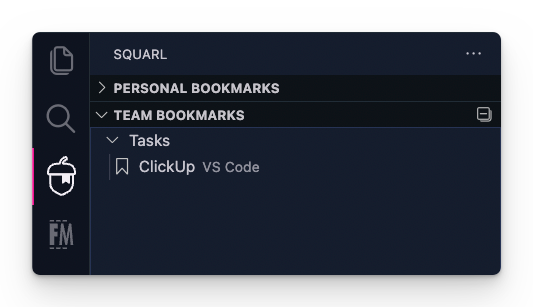
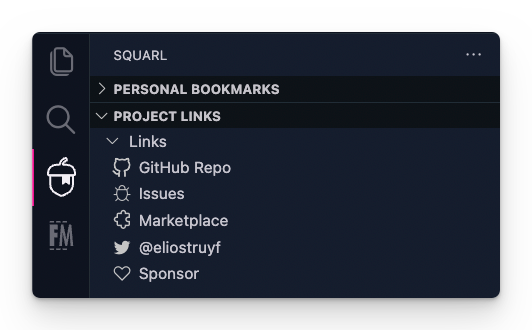
update grouping logic + readme

diff --git a/src/views/BookmarkView.ts b/src/views/BookmarkView.ts
@@ -1,3 +1,4 @@
+import { BookmarkViewType } from './../models/BookmarkViewType';
 import { hasTeamFile } from './../utils/HasTeamFile';
 import { CONTEXT_KEY } from './../constants/ContextKeys';
 import { DefaultGroup } from './../constants/DefaultGroups';
@@ -89,8 +90,8 @@ export class BookmarkView {
     }
   }
 
-  public static async update(type: "personal" | "team") {
-    if (type === "personal") {
+  public static async update(type: BookmarkViewType) {
+    if (type === BookmarkViewType.personal) {
       BookmarkView.provider.refresh();
     } else {
       if (BookmarkView.teamProvider) {
@@ -101,8 +102,8 @@ export class BookmarkView {
     }
   }
 
-  public static async close(type: "personal" | "team") {
-    if (type === "personal") {
+  public static async close(type: BookmarkViewType) {
+    if (type === BookmarkViewType.personal) {
       BookmarkView.tree.dispose();
     } else {
       BookmarkView.teamTree?.dispose();
@@ -131,7 +132,7 @@ export class BookmarkView {
       const groupItems = this._currentItems.filter(b => b.groupId === group.id && !b.isDeleted);
 
       if (groupItems.length > 0) {
-        const groupItem = await this.groupBookmarks(group, groupItems);
+        const groupItem = await this.groupBookmarks(group, groupItems, BookmarkViewType.personal);
         if (groupItem) {
           this.currentTreeItems.push(groupItem);
         }
@@ -141,7 +142,7 @@ export class BookmarkView {
     // Deleted files
     const deletedFiles = this._currentItems.filter(b => b.isDeleted);
     if (deletedFiles.length > 0) {
-      const groupItem = await this.groupBookmarks(DefaultGroup.deleted, deletedFiles, new ThemeIcon("trash"), "deleted");
+      const groupItem = await this.groupBookmarks(DefaultGroup.deleted, deletedFiles, BookmarkViewType.personal, new ThemeIcon("trash"), "deleted");
       if (groupItem) {
         this.currentTreeItems.push(groupItem);
       }
@@ -161,6 +162,10 @@ export class BookmarkView {
       return;
     }
 
+    if (teamFileData.name && BookmarkView.teamTree) {
+      BookmarkView.teamTree.title = teamFileData.name;
+    }
+
     this._currentTeamItems = BookmarkView.processBookmarks(teamFileData.bookmarks || []);
     
     this.currentTeamTreeItems = [
@@ -172,7 +177,7 @@ export class BookmarkView {
       const groupItems = this._currentTeamItems.filter(b => b.groupId === group.id && !b.isDeleted);
 
       if (groupItems.length > 0) {
-        const groupItem = await this.groupBookmarks(group, groupItems);
+        const groupItem = await this.groupBookmarks(group, groupItems, BookmarkViewType.team);
         if (groupItem) {
           this.currentTeamTreeItems.push(groupItem);
         }
@@ -182,7 +187,7 @@ export class BookmarkView {
     // Deleted files
     const deletedFiles = this._currentTeamItems.filter(b => b.isDeleted);
     if (deletedFiles.length > 0) {
-      const groupItem = await this.groupBookmarks(DefaultGroup.deleted, deletedFiles, new ThemeIcon("trash"), "deleted");
+      const groupItem = await this.groupBookmarks(DefaultGroup.deleted, deletedFiles, BookmarkViewType.team, new ThemeIcon("trash"), "deleted");
       if (groupItem) {
         this.currentTeamTreeItems.push(groupItem);
       }
@@ -194,9 +199,18 @@ export class BookmarkView {
   /**
    * Group bookmarks
    */
-  public static async groupBookmarks(group: Group, items: Bookmark[], icon?: ThemeIcon, contextValue?: string): Promise<BookmarkTreeItem> {
+  public static async groupBookmarks(
+    group: Group, 
+    items: Bookmark[],
+    type: BookmarkViewType,
+    icon?: ThemeIcon, 
+    contextValue?: string
+  ): Promise<BookmarkTreeItem> {
     const groupId =`group.${group.id}`;
-    let groupItem = this.currentTreeItems.find(c => c.id === groupId);
+    let groupItem = 
+      type === BookmarkViewType.personal ? 
+        this.currentTreeItems.find(c => c.id === groupId) :
+        this.currentTeamTreeItems.find(c => c.id === groupId);
 
     if (!groupItem) {
       const groupName = group.name || group.id;
@@ -204,7 +218,7 @@ export class BookmarkView {
         groupId,
         groupName, 
         undefined, 
-        await BookmarkProvider.getCollapsibleState(groupId), 
+        await BookmarkProvider.getCollapsibleState(groupId, type), 
         icon,
         undefined,
         undefined,
@@ -235,7 +249,7 @@ export class BookmarkView {
       bookmark.name, 
       bookmark.description, 
       TreeItemCollapsibleState.None, 
-      undefined,
+      bookmark.iconName || undefined,
       bookmark.path,
       bookmark.type,
       contextValue ? `${contextValue}Bookmark` : "bookmark",

diff --git a/src/providers/BookmarkProvider.ts b/src/providers/BookmarkProvider.ts
@@ -1,3 +1,4 @@
+import { BookmarkViewType } from './../models/BookmarkViewType';
 import { toAbsPath } from './../utils/ToAbsPath';
 import { ExtensionService } from './../services/ExtensionService';
 import { join } from "path";
@@ -8,14 +9,16 @@ import { BookmarkView } from '../views/BookmarkView';
 
 
 export class BookmarkProvider implements TreeDataProvider<BookmarkTreeItem> {
-  private static readonly Collapsible_Key = `bookmarks.collapsibleStates`;
+  private static readonly Collapsible_Personal_Key = `bookmarks.personal.collapsibleStates`;
+  private static readonly Collapsible_Team_Key = `bookmarks.team.collapsibleStates`;
   private ext: ExtensionService;
 
   private _onDidChangeTreeData = new EventEmitter<BookmarkTreeItem | void>()
   public readonly onDidChangeTreeData: Event<void | BookmarkTreeItem> = this._onDidChangeTreeData.event;
 
-  public static async getCollapsibleState(id: string) {
-    const elements = await ExtensionService.getInstance().getState<{ [prop: string]: TreeItemCollapsibleState }>(BookmarkProvider.Collapsible_Key) || {};
+  public static async getCollapsibleState(id: string, type: BookmarkViewType) {
+    const stateKey = type === BookmarkViewType.team ? BookmarkProvider.Collapsible_Team_Key : BookmarkProvider.Collapsible_Personal_Key
+    const elements = await ExtensionService.getInstance().getState<{ [prop: string]: TreeItemCollapsibleState }>(stateKey) || {};
 
     if (elements[id]) {
       return elements[id];
@@ -25,7 +28,7 @@ export class BookmarkProvider implements TreeDataProvider<BookmarkTreeItem> {
   }
 
   constructor(private isTeam: boolean = false) {
-  // constructor(private bookmarks: BookmarkTreeItem[]) {
+    // constructor(private bookmarks: BookmarkTreeItem[]) {
     this.ext = ExtensionService.getInstance();
   }
 
@@ -35,11 +38,12 @@ export class BookmarkProvider implements TreeDataProvider<BookmarkTreeItem> {
   }
 
   public async updateCollapsibleState(element: BookmarkTreeItem, collapsibleState: TreeItemCollapsibleState): Promise<void> {
-    const elements = await this.ext.getState<{ [prop: string]: TreeItemCollapsibleState }>(BookmarkProvider.Collapsible_Key) || {};
+    const stateKey = this.isTeam ? BookmarkProvider.Collapsible_Team_Key : BookmarkProvider.Collapsible_Personal_Key;
+    const elements = await this.ext.getState<{ [prop: string]: TreeItemCollapsibleState }>(stateKey) || {};
 
-    elements[element.label] = collapsibleState;
+    elements[element.id] = collapsibleState;
 
-    this.ext.setState(BookmarkProvider.Collapsible_Key, elements);
+    this.ext.setState(stateKey, elements);
   }
   
   public getTreeItem(element: BookmarkTreeItem): TreeItem | Thenable<TreeItem> {
@@ -82,12 +86,20 @@ export class BookmarkTreeItem extends TreeItem {
   ) {
     super(label, collapsibleState);
 
+    if (!type) {
+      if (path?.startsWith(`http`)) {
+        type = BookmarkType.Link;
+      } else if (path) {
+        type = BookmarkType.File;
+      }
+    }
+
     if (type === BookmarkType.File && path) {
       const fileResourcePath = toAbsPath(path);
       this.resourceUri = fileResourcePath;
     } else if (type === BookmarkType.Link && path) {
       this.resourceUri = Uri.parse(path);
-      this.iconPath = new ThemeIcon("bookmark");
+      this.iconPath = iconPath ? new ThemeIcon(iconPath as string) : new ThemeIcon("bookmark");
     } else {
       this.resourceUri = undefined;
     }

diff --git a/src/listeners/TeamSettingsListener.ts b/src/listeners/TeamSettingsListener.ts
@@ -3,6 +3,7 @@ import { FileDeleteEvent, TextDocument, workspace } from 'vscode';
 import { CONFIG_KEY } from '../constants';
 import { setHasGroupContext } from '../utils/SetHasGroupContext';
 import { getTeamFile } from '../utils/GetTeamFile';
+import { BookmarkViewType } from '../models';
 
 
 export class TeamSettingsListener {
@@ -10,7 +11,7 @@ export class TeamSettingsListener {
   public static async init() {
     workspace.onDidSaveTextDocument((e: TextDocument) => {
       if (e.uri.fsPath.endsWith(`squarl.json`)) {
-        BookmarkView.update("team");
+        BookmarkView.update(BookmarkViewType.team);
       }
     });
 
@@ -19,7 +20,7 @@ export class TeamSettingsListener {
       const exists = files.find(f => f.endsWith(`squarl.json`));
 
       if (exists) {
-        BookmarkView.close("team");
+        BookmarkView.close(BookmarkViewType.team);
       }
     });
   }

diff --git a/src/listeners/SettingsListener.ts b/src/listeners/SettingsListener.ts
@@ -2,6 +2,7 @@ import { BookmarkView } from './../views/BookmarkView';
 import { workspace } from 'vscode';
 import { CONFIG_KEY } from '../constants';
 import { setHasGroupContext } from '../utils/SetHasGroupContext';
+import { BookmarkViewType } from '../models';
 
 
 export class SettingsListener {
@@ -9,7 +10,7 @@ export class SettingsListener {
   public static init() {
     workspace.onDidChangeConfiguration((e) => {
       if (e.affectsConfiguration(CONFIG_KEY)) {
-        BookmarkView.update("personal");
+        BookmarkView.update(BookmarkViewType.personal);
 
         // Set the VS Code context key
         setHasGroupContext();

diff --git a/src/commands/initTeam.ts b/src/commands/initTeam.ts
@@ -27,7 +27,7 @@ export class InitTeam {
       return;
     }
 
-    writeFileSync(teamFilePath, JSON.stringify({groups:[],bookmarks:[]}, null, 2), "utf8");
+    writeFileSync(teamFilePath, JSON.stringify({name:"Team bookmarks",groups:[],bookmarks:[]}, null, 2), "utf8");
     Notifications.info(`Team file created.`)
   }
 }

diff --git a/src/utils/GetTeamFileContents.ts b/src/utils/GetTeamFileContents.ts
@@ -13,9 +13,11 @@ export const getTeamFileContents = async () => {
   const teamContents = teamDoc.getText();
 
   let teamData: {
+    name: string;
     groups: Group[];
     bookmarks: Bookmark[];
   };
+  
   if (typeof teamContents === "string") {
     teamData = JSON.parse(teamContents);
   } else {

diff --git a/src/models/Bookmark.ts b/src/models/Bookmark.ts
@@ -5,9 +5,13 @@ export interface Bookmark {
   path: string;
   type: BookmarkType;
 
+  // Optional
   id?: string;
   description?: string;
-  lineColumn?: string;
   groupId?: string;
+  iconName?: string;
+
+  // Programatically
+  lineColumn?: string;
   isDeleted?: boolean;
 }

diff --git a/src/models/index.ts b/src/models/index.ts
@@ -1,3 +1,4 @@
 export * from './Bookmark';
 export * from './BookmarkType';
+export * from './BookmarkViewType';
 export * from './Group';

diff --git a/src/models/BookmarkViewType.ts b/src/models/BookmarkViewType.ts
@@ -1,0 +1,6 @@
+
+
+export enum BookmarkViewType {
+  personal = 1,
+  team
+}

diff --git a/TODO.md b/TODO.md
@@ -9,15 +9,11 @@
 - Sorting by name or manual sorting
 - https://code.visualstudio.com/updates/v1_70#_webview-context-menus
 - Remove the view when team file is removed -> How can a treeview be closed/removed?
-- Better activation options
-- Readme
 - Marketplace background color
-- Create a command to init a team project file `squarl.json`
 
 ## In progess
 
-- Team file development (no sorting)
-- Team file search
+- Readme
 
 ## Features
 
@@ -65,6 +61,14 @@
 - Read the `squarl.json` file -> team configuration
   - Team file stays seperate from the current config
   - What with the sorting? How will it update the settings?
+- Create a command to init a team project file `squarl.json`
+- Link icon
+- Path parsing to see the type
+
+- Team file development (no sorting)
+- Team file search
+
+- Better extension activation
 
 ## Removed
 

diff --git a/README.md b/README.md
@@ -74,6 +74,7 @@ Initial file content:
 
 ```json
 {
+  "name": "Team bookmarks",
   "groups": [],
   "bookmarks": []
 }
@@ -123,6 +124,7 @@ Bookmark items contain the following properties:
 - **description**: Description for your bookmark (optional)
 - **type**: `file` or `link`
 - **groupId**: ID of the group (optional)
+- **iconName**: Name of the icon to set for the link (optional)
 
 Example:
 
